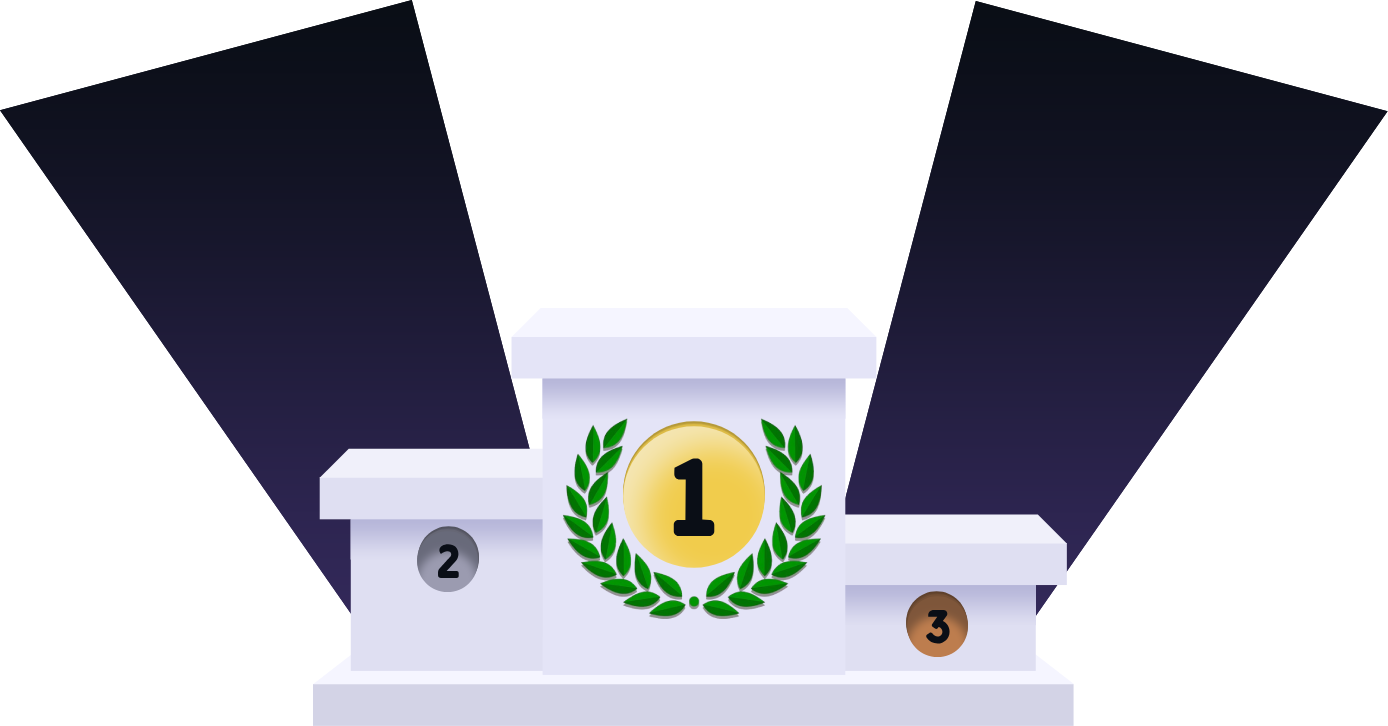
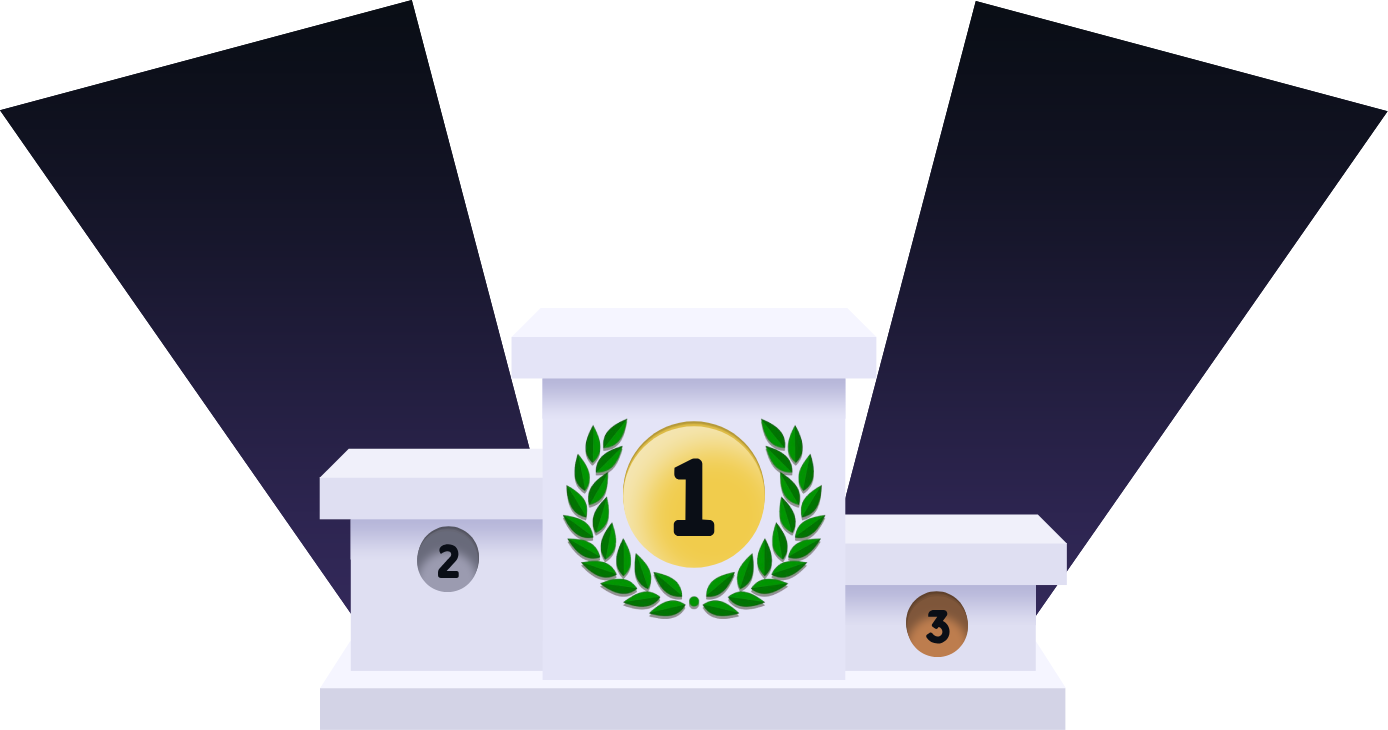
Encore des petites améliorations

diff --git a/src/style/stylesheet.c b/src/style/stylesheet.c
@@ -757,14 +757,14 @@ void createScoreboardComponents(int32_t top, int32_t left, int32_t height, int32
     text_stylesheet.color = ROOT_WHITE_COLOR();
     strcpy(text_stylesheet.font_family, FONT_POPPINS_BLACK);
     text_stylesheet.font_size = 100;
-    createText(components, components_size, texts, texts_size, 0, text_stylesheet, FALSE, TRUE, text_stylesheet, 0, "9018");
+    createText(components, components_size, texts, texts_size, 0, text_stylesheet, FALSE, TRUE, text_stylesheet, 0, "---");
     text_stylesheet.top = 190;
     text_stylesheet.font_size = 60;
     text_stylesheet.width = 1500;
-    createText(components, components_size, texts, texts_size, 0, text_stylesheet, FALSE, TRUE, text_stylesheet, 0, "5082");
+    createText(components, components_size, texts, texts_size, 0, text_stylesheet, FALSE, TRUE, text_stylesheet, 0, "---");
     text_stylesheet.top = 255;
     text_stylesheet.width = 2500;
-    createText(components, components_size, texts, texts_size, 0, text_stylesheet, FALSE, TRUE, text_stylesheet, 0, "2932");
+    createText(components, components_size, texts, texts_size, 0, text_stylesheet, FALSE, TRUE, text_stylesheet, 0, "---");
 }
 
 void createSettingsComponents(page_components page, int32_t top, int32_t left, int32_t height, int32_t width, component components[], uint32_t *components_size, button_component buttons[], uint32_t *buttons_size, text_component texts[], uint32_t *texts_size, key_component keys[], uint32_t *keys_size, settings set)
